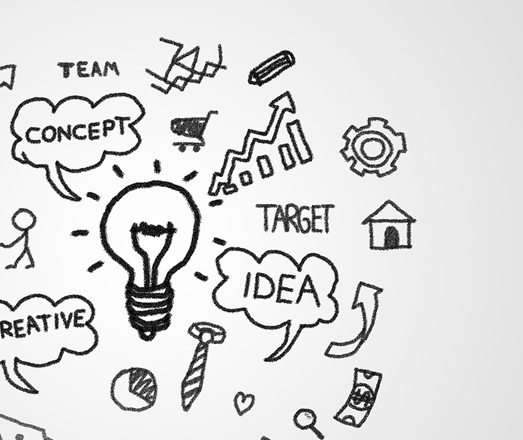
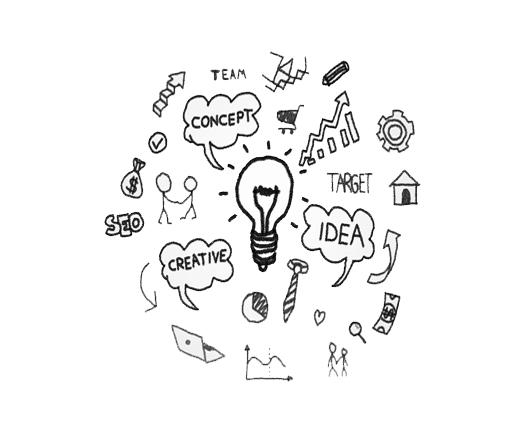
status-section-done

diff --git a/css/index.css b/css/index.css
@@ -79,7 +79,7 @@
 
 /* scroll -E */
 /* start -S */
-.start{ background-color: #fff; padding: 406px 0 222px;}
+.start{ background-color: #fff; padding-bottom: 406px;}
 .start .start_box{ display: inline-block; position: relative;}
 .start .start_model{ margin-right: 51px; position: relative; }
 .start .start_box::after{ content: ""; width: 471px; height: 22px; background-color: #f00; position: absolute;left: 0; bottom: 0; }
@@ -92,10 +92,24 @@
 .start_desc .desc_emph{ display: inline-block; margin-right: 31px; width: 205px; height: 77px; background-image: url(../img/new.png); vertical-align: top; }
 .start_desc .desc_text{ display: inline-block; vertical-align: top; margin: 12px;}
 /* status -S */
-.status{ background-color: #fff;}
-.status .status_tit{ display: block; text-align: center; font-size: 48px;}
+.status{ padding-bottom: 222px; background-color: #fff;}
+.status .status_tit{ display: block; margin-bottom: 328px; text-align: center; font-size: 48px;}
 .status_tit .tit_emph{display: inline-block; width: 194px; height: 78px; background-image: url(../img/principal.png);}
-.status .status_desc{display: block; margin: 0 auto; width: 651px; height: 140px; background-image: url(../img/something.png);}
+.status .status_desc{display: block; margin: 0 auto 262px; width: 651px; height: 140px; background-image: url(../img/something.png);}
+.status .think_box{ margin-left: 163px; width: 1088px; height: 739px; background-image: url(../img/brainstorming.png); position: relative;}
+.think_box .think_desc_blue{ font-size: 50px; color: #080b43; position: absolute; left: 0; top: 0;}
+.think_box .think_desc_red{ font-size: 40px; color: #f00; position: absolute; left: 0; top: 0; }
+.think_box span:nth-child(1){left: 455px;top: 74px;}
+.think_box span:nth-child(2){left: 325px;top: 163px;}
+.think_box span:nth-child(3){left: 701px;top: 163px;}
+.think_box span:nth-child(4){left: 136px;top: 240px;}
+.think_box span:nth-child(5){left: 548px;top: 219px;}
+.think_box span:nth-child(6){left: 405px;top: 306px;}
+.think_box span:nth-child(7){left: 644px;top: 283px;}
+.think_box span:nth-child(8){left: 230px;top: 383px;}
+.think_box span:nth-child(9){left: 527px;top: 414px;}
+.think_box span:nth-child(10){left: 718px;top: 373px;}
+.think_box span:nth-child(11){left: 340px;top: 512px;}
 /* solution -S */
 .solution{ padding: 193px 0 279px; }
 /* help -S */

diff --git a/index.html b/index.html
@@ -95,17 +95,17 @@
                 <span class="status_tit">하지만 <span class="tit_emph screen_reader">원장님</span> 들의</span>
                 <span class="status_desc screen_reader">현실적 고민</span>
                 <div class="think_box">
-                    <span>학부모 설명회</span>
-                    <span>강사채용</span>
-                    <span>이벤트</span>
-                    <span>프로모션</span>
-                    <span>세무</span>
-                    <span>마케팅</span>
-                    <span>사업자 등록 및 관리</span>
-                    <span>상권분석</span>
-                    <span>교재</span>
-                    <span>커리큘럼</span>
-                    <span>홈페이지 제작</span>
+                    <span class="think_desc_blue">학부모 설명회</span>
+                    <span class="think_desc_red">강사채용</span>
+                    <span class="think_desc_blue">이벤트</span>
+                    <span class="think_desc_blue">프로모션</span>
+                    <span class="think_desc_red">세무</span>
+                    <span class="think_desc_blue">마케팅</span>
+                    <span class="think_desc_red">사업자 등록 및 관리</span>
+                    <span class="think_desc_red">상권분석</span>
+                    <span class="think_desc_red">교재</span>
+                    <span class="think_desc_blue">커리큘럼</span>
+                    <span class="think_desc_blue">홈페이지 제작</span>
                 </div>
                 <span class="screen_reader">원장님들의 생각</span>
                 <div class="model_think">
